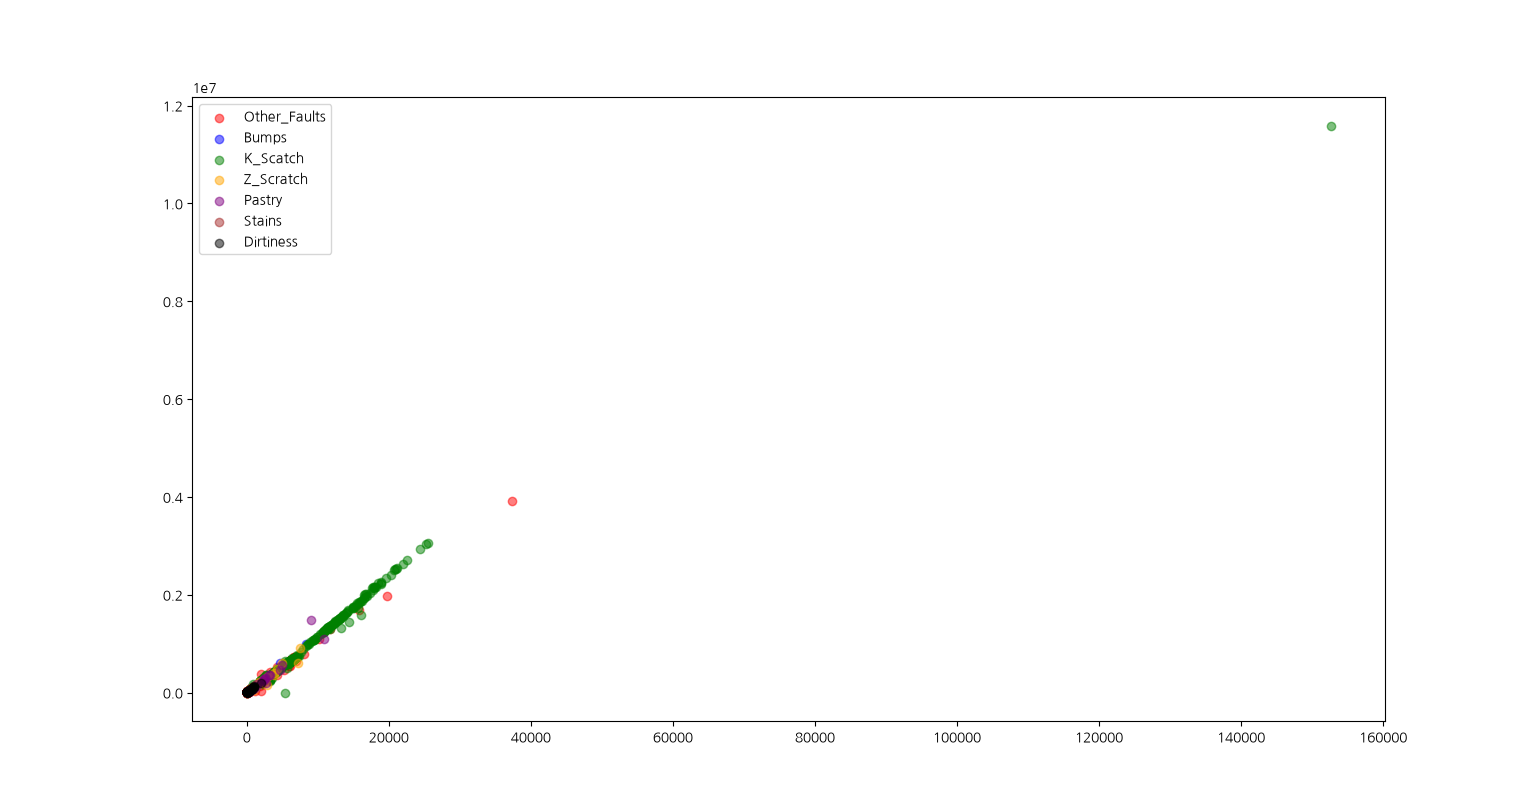
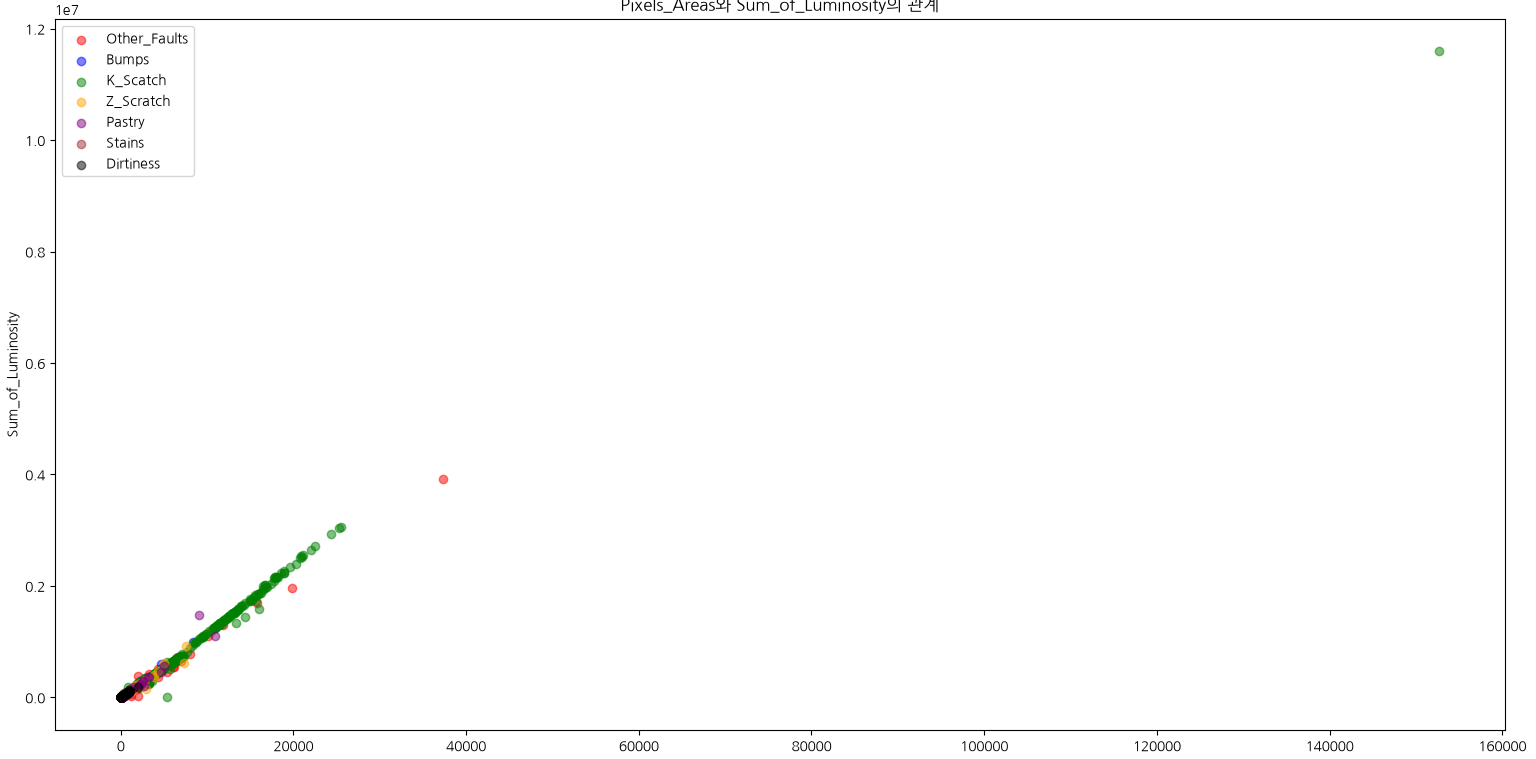
2026.09.30 - 대시보드 구현 준비 (streamlit 사용)

diff --git a/src/data_loading.py b/src/data_loading.py
@@ -1,20 +1,26 @@
 # 데이터 준비 단계 py 파일
 
 import pandas as pd  # pandas 가져오기 (데이터 불러오기, 계산 등)
+from pathlib import Path
+
+# 'Path'를 활용하여 최상위 경로 설정하기
+BASE_DIR = Path(__file__).resolve().parent.parent
 
 # ===================================================
 # 01. 데이터 준비 및 가공
 # ===================================================
 
+DATA_DIR = BASE_DIR / "data"
+
 # 데이터 파일 불러오기
-df = pd.read_csv("../data/Faults.NNA", sep=r"\s+", header=None)
+df = pd.read_csv(DATA_DIR / "Faults.NNA", sep=r"\s+", header=None)
 # => r'\s+'는 공백이 하나 이상 있는 곳을 구분자로 사용
 # => sep=r"\s+":  탭이나 스페이스바가 여러 번 들어간 정렬되지 않은 공백 데이터도 깔끔하게 잘라주는 역할
 # => header=None: 파일의 첫 번째 줄을 헤더로 사용 금지 => 열의 헤더가 숫자로 자동 지정
 
 
 # 컬럼명 모음 불러오기
-columns = pd.read_csv("../data/Faults27x7_var", sep=r"\s+", header=None)
+columns = pd.read_csv(DATA_DIR / "Faults27x7_var", sep=r"\s+", header=None)
 
 
 # 컬럼명들을 데이터 프레임에 적용하기

diff --git a/src/visualization.py b/src/visualization.py
@@ -18,13 +18,17 @@ from analysis import (
     shape_columns_avg,
 )
 
+from pathlib import Path
+
+BASE_DIR = Path(__file__).resolve().parent.parent
+FONT_DIR = BASE_DIR / "fonts"
 
 # ===================================================
 # 01. Matplotlib 기본 설정
 # ===================================================
 
 # 폰트 파일 경로
-font_path = "../fonts/NanumGothic-Regular.ttf"
+font_path = FONT_DIR / "NanumGothic-Regular.ttf"
 
 # 폰트 파일을 Matplotlib에 등록
 fm.fontManager.addfont(font_path)

diff --git a/app.py b/app.py
@@ -1,0 +1,14 @@
+# 데이터 자료 대시보드 구현
+
+# Streamlit 웹 대시보드 실행 파일 불러오기
+import streamlit as st
+from src.data_loading import df, fault_cnts, fault_types
+
+st.title("Steel Plate Fault Analysis")
+st.write("철판 결함 데이터 분석 대시보드")
+
+st.write("데이터 크기:", df.shape)
+
+st.dataframe(df.head())
+
+st.metric(label="전체 데이터 수", value=len(df))

diff --git a/src/excel_report.py b/src/excel_report.py
@@ -27,7 +27,6 @@ from openpyxl.styles import (
     Border,
     Side,
 )  # openpyxl의 스타일 기능들 불러오기
-from openpyxl.drawing.image import Image
 
 # 현재 Python 파일의 위치를 기준으로 reports 폴더 경로 생성
 REPORTS = os.path.join(os.path.dirname(os.path.abspath(__file__)), "..", "reports")
